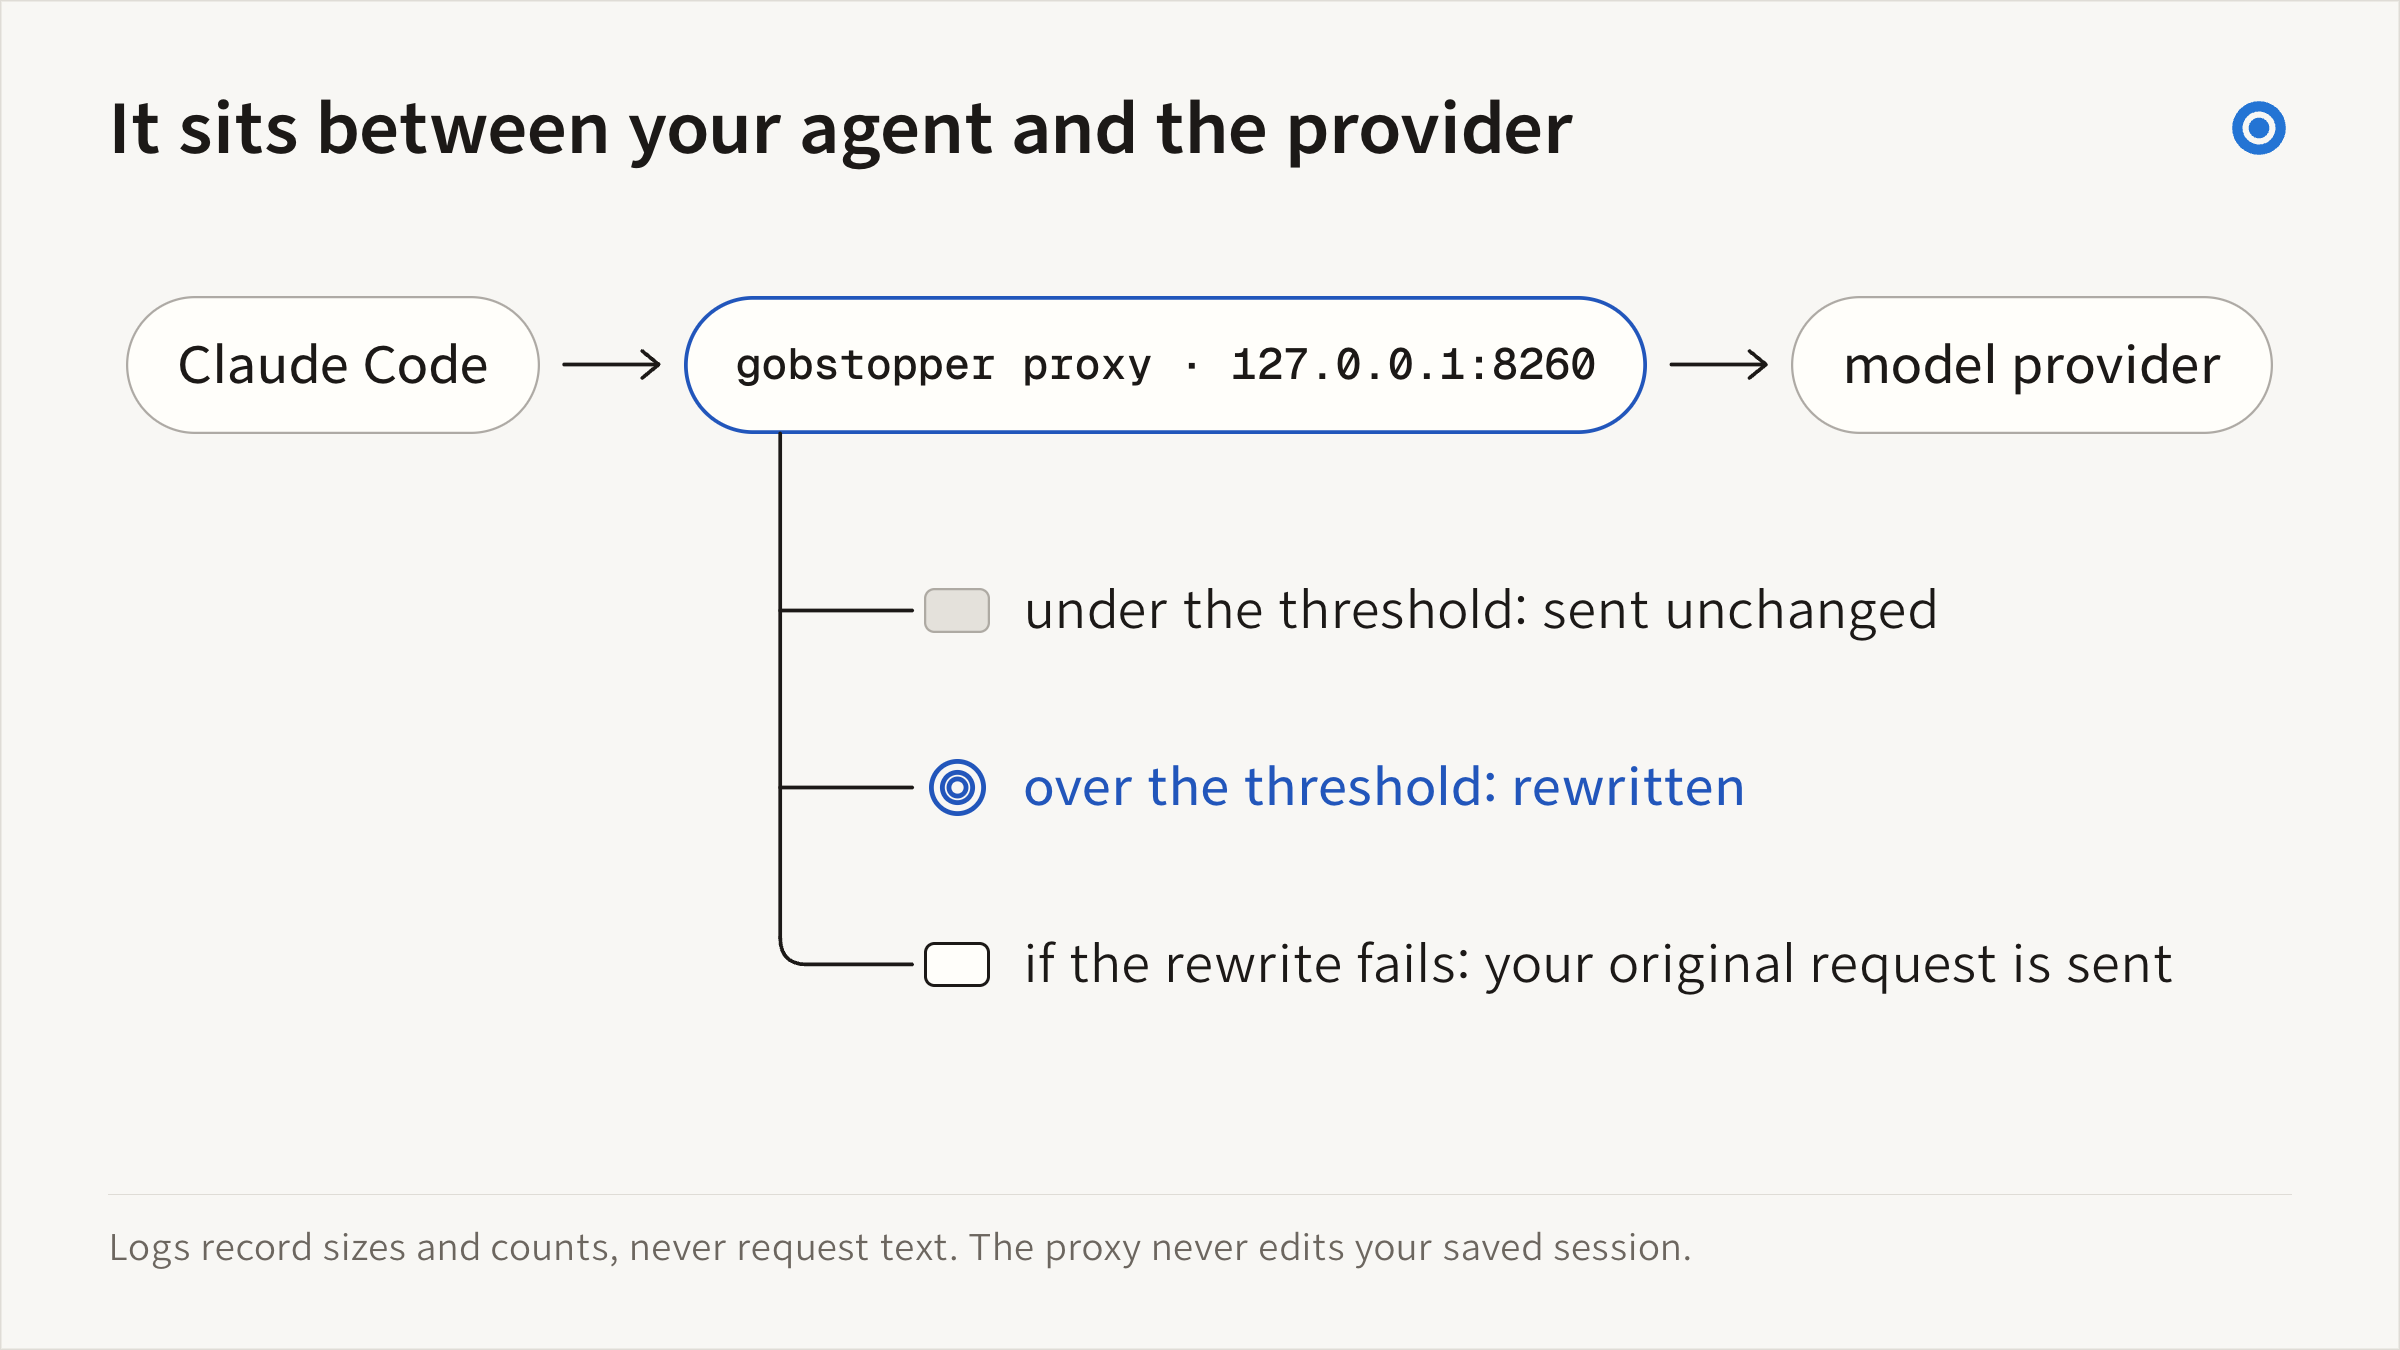
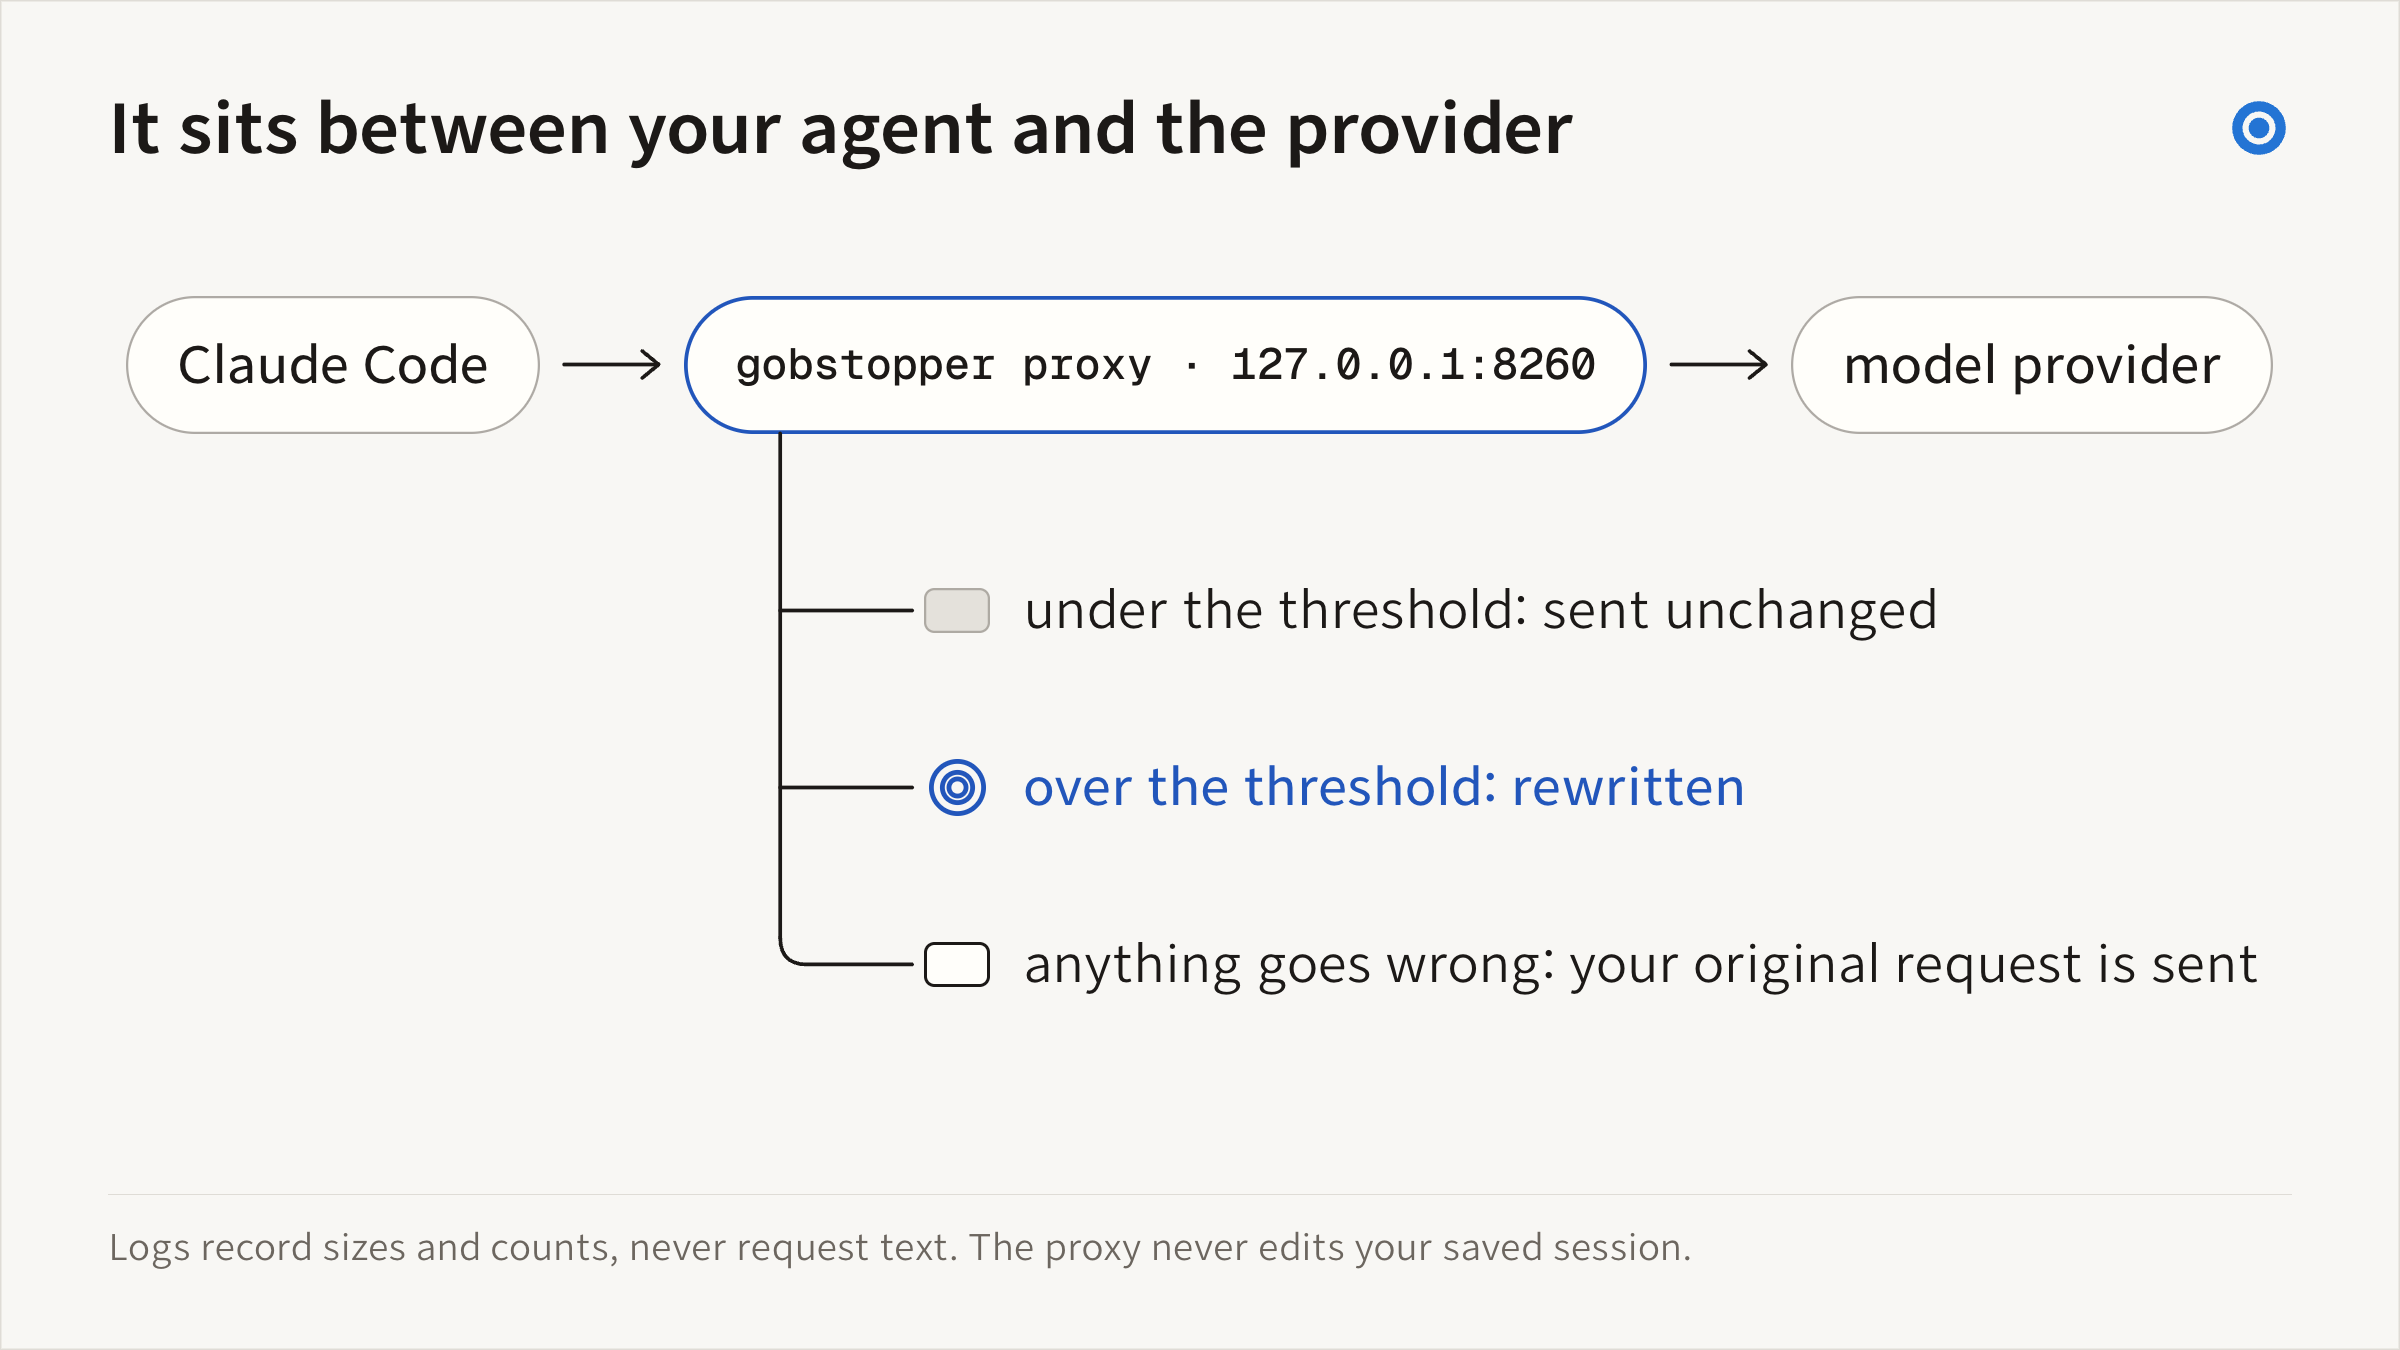
media: match the route label and replay provenance to the site
The route still's third branch reads "anything goes wrong: your original
request is sent" again, as on the site, the film and the README alt text.
The replay provenance line is the site's P_SAW, and stills.test.ts now
checks every provenance line against the site's figure constants. CI runs
the stills test in the quality job. Route and sawtooth re-rendered.

Changed region(s): [[0.4375, 0.6844, 0.9375, 0.7467]]

diff --git a/media/lib/provenance.ts b/media/lib/provenance.ts
@@ -1,4 +1,5 @@
 // SPEC §3 provenance lines, printed identically by the site figures and the stills.
+// media/stills.test.ts checks each against site/app/_components/gob-figure.tsx.
 // Stills read them as `Gob.PROV`; media/stills.test.ts checks no scene inlines one.
 const TB =
   "Terminal-Bench 2.1 · 89 tasks · one trial per arm · Claude Code 2.1.283 with GLM 5.3 Flash via Vercel AI Gateway · Gobstopper v0.7.2, 45,000-token threshold (default 128,000) · September 27–28, 2026";
@@ -9,7 +10,7 @@ export const PROV = Object.freeze({
   /** P-TB-full: P-TB plus the build caveat. */
   tbFull: `${TB} · 21 of 89 tail-0 trials may have run an earlier build`,
   /** P-SAW */
-  saw: "Estimated tokens (4 characters per token), not billed · one recorded Claude Code session, 383 requests · replay on the v0.7.2 engine, calibration on",
+  saw: "Estimated tokens (about 4 characters per token, plus 20,000 assumed), not billed · one recorded Claude Code session, 383 requests · replay, build f4db57e (the v0.7.2 request engine), calibration on",
   /** P-GRID */
   grid: "Estimates, not billed · 24 recorded sessions (12 Claude Code, 12 Codex), 665M tokens · main fdeb099 · September 26, 2026",
 });

diff --git a/media/stills.test.ts b/media/stills.test.ts
@@ -6,6 +6,7 @@ import { createHash } from "node:crypto";
 import { existsSync, readdirSync, readFileSync } from "node:fs";
 import { join } from "node:path";
 import { gobFilm } from "../site/app/_data/gob-film";
+import { P_GRID, P_SAW, P_TB, P_TB_FULL } from "../site/app/_components/gob-figure";
 import { PROV } from "./lib/provenance";
 import { FILM_SECONDS, MEDIA, REPO, loadStills } from "./render";
 
@@ -61,6 +62,10 @@ describe("still sources", () => {
     }
     expect(PROV.tbFull.startsWith(PROV.tb)).toBe(true);
     expect(PROV.tb).toContain("45,000-token threshold (default 128,000)");
+  });
+
+  test("each provenance line is the one the site's figures print", () => {
+    expect(PROV).toEqual({ tb: P_TB, tbFull: P_TB_FULL, saw: P_SAW, grid: P_GRID });
   });
 
   test("the film card's length agrees with the film", () => {

diff --git a/media/scenes/stills/route.html b/media/scenes/stills/route.html
@@ -74,7 +74,7 @@ Gob.scene({ palette: "paper" }, (s) => {
   const outcomes = [
     { text: "under the threshold: sent unchanged", color: "var(--slab-edge)", glyph: "slab" },
     { text: "over the threshold: rewritten", color: "var(--tail0)", glyph: "ring" },
-    { text: "if the rewrite fails: your original request is sent", color: "var(--ink)", glyph: "back" },
+    { text: "anything goes wrong: your original request is sent", color: "var(--ink)", glyph: "back" },
   ];
   const lastY = firstY + stepY * (outcomes.length - 1);
   path(`M${trunkX},${rowY + pillH} V${lastY - 18}`, "var(--ink)");

diff --git a/media/README.md b/media/README.md
@@ -42,6 +42,14 @@ bun media/render.ts shots [--draft]     # every shot, one after another
 
 Add `--dry-run` to any of them to build the scene and ask Slopcamera to validate it without opening a browser.
 
+Check the committed stills, after installing the site's dependencies (`cd site && bun install --frozen-lockfile --ignore-scripts`):
+
+```bash
+bun test media/stills.test.ts           # sizes, docs/blog byte identity, file sets, receipts, provenance lines
+```
+
+CI runs the same test.
+
 Each job:
 
 1. Inlines `lib/bundle.ts` into a copy of the scene at `out/build/<job>.html`.
